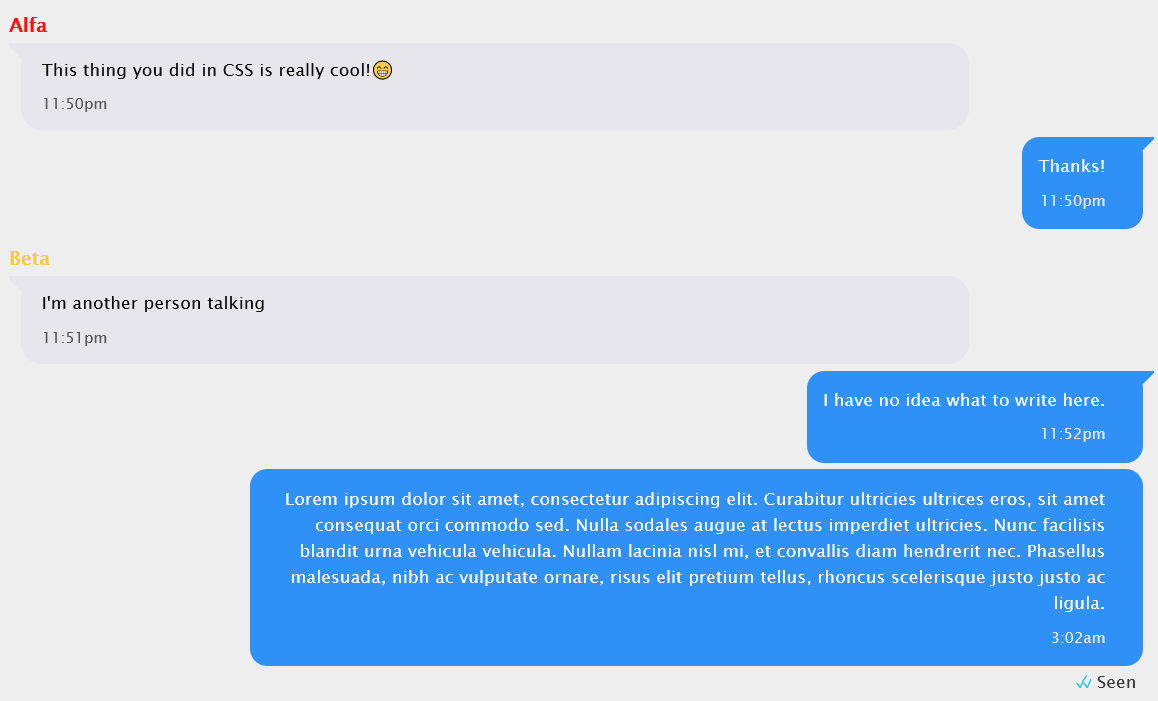
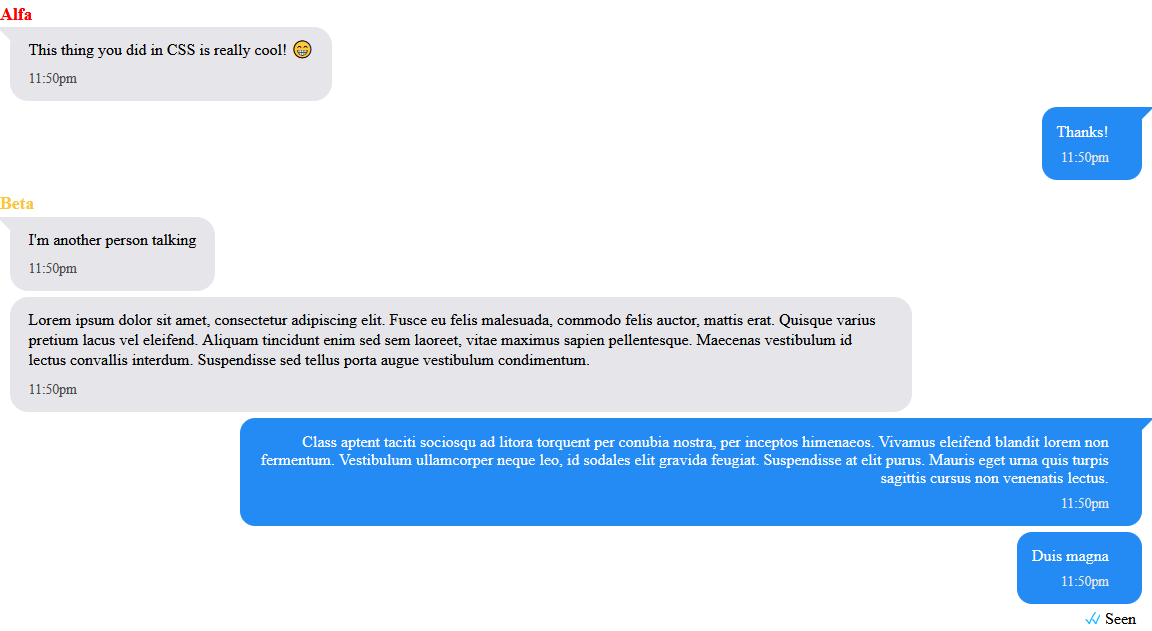
v2.0.1
Cleaned the code. Update example_image in the README.

diff --git a/HTML_examples/example_for_HTML_CSS_users.html b/HTML_examples/example_for_HTML_CSS_users.html
@@ -65,8 +65,7 @@
     <div class="messagerow">
         <div class="sent"> 
             <div class="sentbubble">
-                <p align="right">aaaaaaaaaaaaaaaaaaaaaaaaaaaaaaaaaaaaaaa</p>
-                <img src="" alt="">
+                <p align="right">As you can see</p>
                 <p align="right" class="timesent">11:50pm</p>
             </div>
             <!--"Seen" and "Sent" texts.-->
